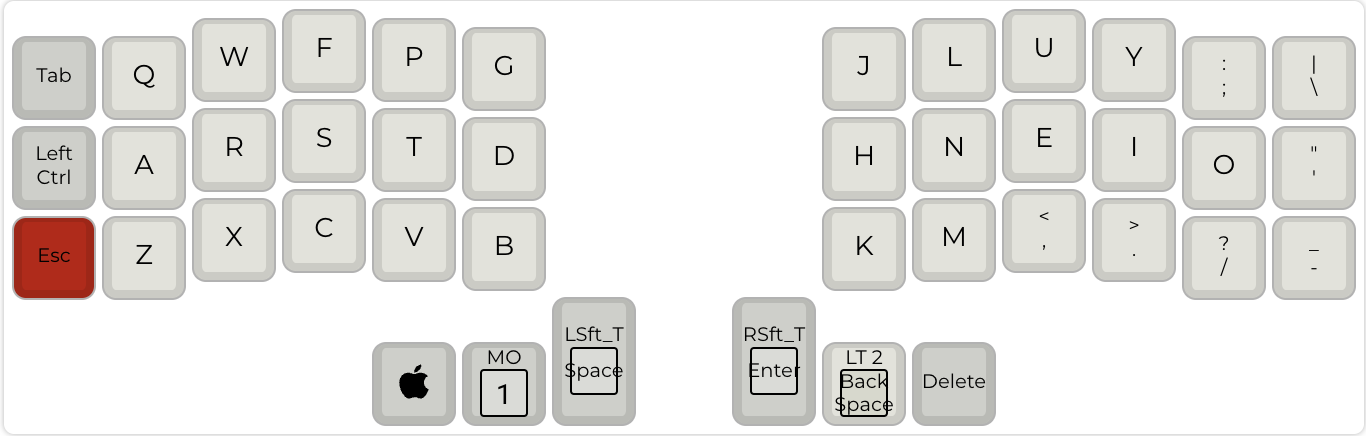
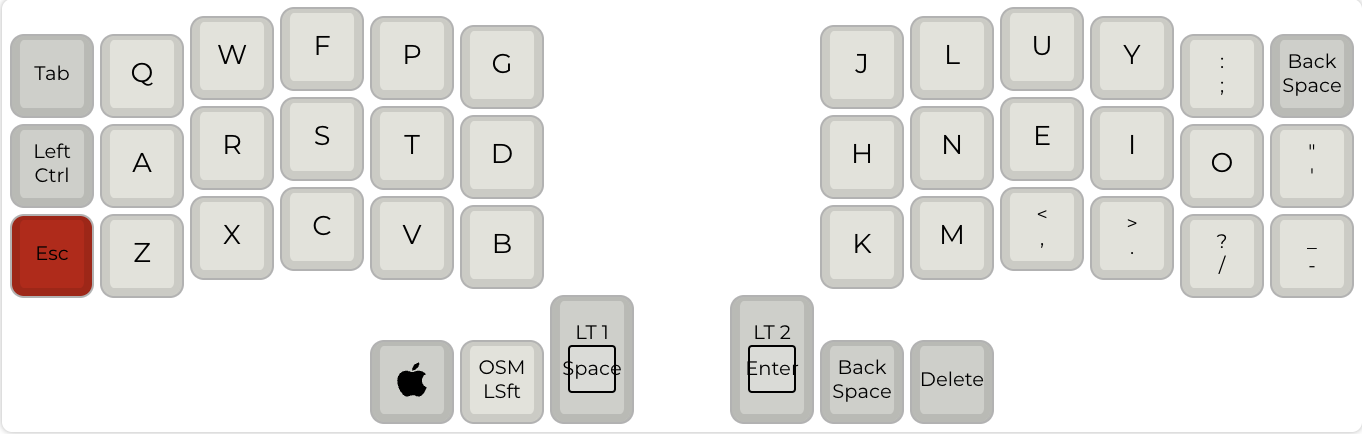
docs

diff --git a/keymap.c b/keymap.c
@@ -61,9 +61,10 @@ tap_dance_action_t tap_dance_actions[] = {
 #define DZTDLBC TD(TD_LBKT_LBRC)
 #define DZTDRBC TD(TD_RBKT_RBRC)
 
+// temp while I try this out
 #define DZ_SPC1 LT(_NAV, KC_SPC)
 #define DZ_ENT1 LT(_NUMBERS,KC_ENT)
-#define DZ_SFT  OSM(MOD_LSFT)
+
 
 const uint16_t PROGMEM keymaps[][MATRIX_ROWS][MATRIX_COLS] = {
   [_COLEMAK] = LAYOUT_split_3x6_3(
@@ -75,7 +76,7 @@ const uint16_t PROGMEM keymaps[][MATRIX_ROWS][MATRIX_COLS] = {
        KC_ESC,    KC_Z,    KC_X,    KC_C,    KC_V,    KC_B,                         KC_K,    KC_M, KC_COMM,  KC_DOT, KC_SLSH, KC_MINS,
   //|--------+--------+--------+--------+--------+--------+--------|  |--------+--------+--------+--------+--------+--------+--------|
 //                                          KC_LGUI,   MO(1),  DZ_SPC,  DZ_SFTENT, DZ_BSPC,  KC_DEL
-                                          KC_LGUI,   DZ_SFT,  DZ_SPC1,  DZ_ENT1, KC_BSPC,  KC_DEL
+                                          KC_LGUI,   DZ_OSS,  DZ_SPC1,  DZ_ENT1, KC_BSPC,  KC_DEL
                                       //`--------------------------'  `--------------------------'
 
   ),
@@ -110,7 +111,7 @@ const uint16_t PROGMEM keymaps[][MATRIX_ROWS][MATRIX_COLS] = {
   //|--------+--------+--------+--------+--------+--------|                    |--------+--------+--------+--------+--------+--------|
       RGB_TOG, RGB_HUI, RGB_SAI, RGB_VAI, RGB_SPI, XXXXXXX,                      XXXXXXX, XXXXXXX, XXXXXXX, XXXXXXX, XXXXXXX, XXXXXXX,
   //|--------+--------+--------+--------+--------+--------|                    |--------+--------+--------+--------+--------+--------|
-      RGB_MOD, RGB_HUD, RGB_SAD, RGB_VAD, RGB_SPD, XXXXXXX,                      XXXXXXX, XXXXXXX, XXXXXXX, XXXXXXX, XXXXXXX,  DZ_WIN,
+      RGB_MOD, RGB_HUD, RGB_SAD, RGB_VAD, RGB_SPD, XXXXXXX,                      XXXXXXX, XXXXXXX, XXXXXXX, XXXXXXX, XXXXXXX, XXXXXXX,
   //|--------+--------+--------+--------+--------+--------+--------|  |--------+--------+--------+--------+--------+--------+--------|
                                           _______, _______, _______,    _______, _______, _______
                                       //`--------------------------'  `--------------------------'
@@ -138,18 +139,7 @@ const uint16_t PROGMEM keymaps[][MATRIX_ROWS][MATRIX_COLS] = {
   //|--------+--------+--------+--------+--------+--------+--------|  |--------+--------+--------+--------+--------+--------+--------|
                                           _______, _______, DZ_NBSP,    _______, _______, _______
                                       //`--------------------------'  `--------------------------'
-  ),
-
-  [_OLDNAV] = LAYOUT_split_3x6_3(  // nav layer
-  //,-----------------------------------------------------.                    ,-----------------------------------------------------.
-      _______, XXXXXXX, XXXXXXX, XXXXXXX, XXXXXXX, XXXXXXX,                      XXXXXXX, XXXXXXX, XXXXXXX, XXXXXXX, XXXXXXX, KC_BSPC,
-  //|--------+--------+--------+--------+--------+--------|                    |--------+--------+--------+--------+--------+--------|
-      _______, KC_LGUI, KC_LALT, KC_LCTL, KC_LSFT, _______,                      KC_CAPS, KC_LEFT, KC_DOWN,   KC_UP,KC_RIGHT, S(KC_QUOT),
-  //|--------+--------+--------+--------+--------+--------|                    |--------+--------+--------+--------+--------+--------|
-      _______, _______, _______, _______, _______, _______,                       KC_INS, KC_HOME, KC_PGDN, KC_PGUP,  KC_END,  KC_DEL,
-  //|--------+--------+--------+--------+--------+--------+--------|  |--------+--------+--------+--------+--------+--------+--------|
-                                          _______, _______, _______,    _______,   MO(3), _______
-                                      //`--------------------------'  `--------------------------'
+ 
   )
 };
 
